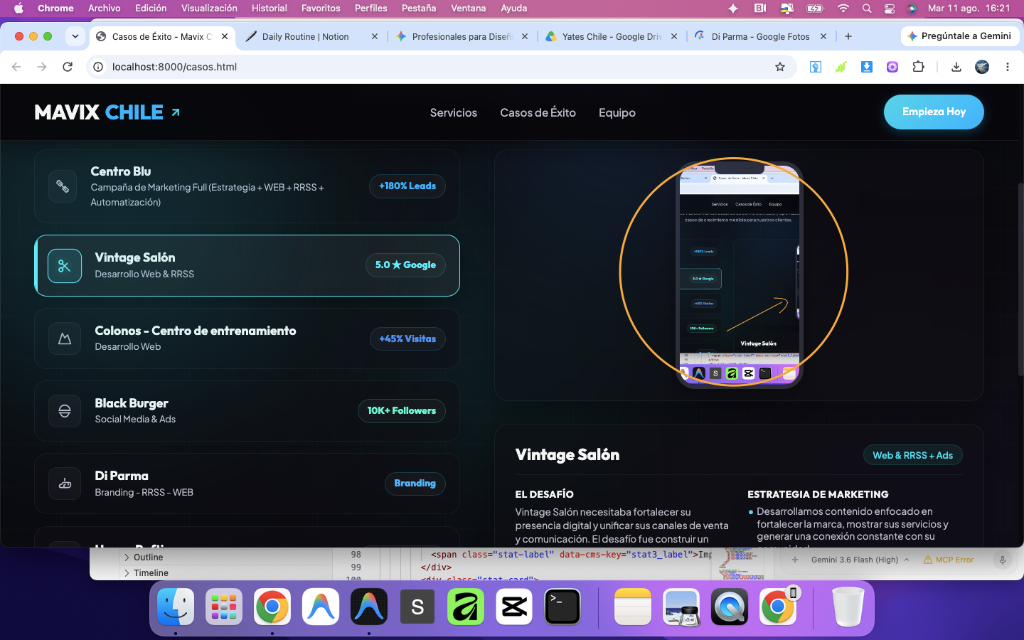
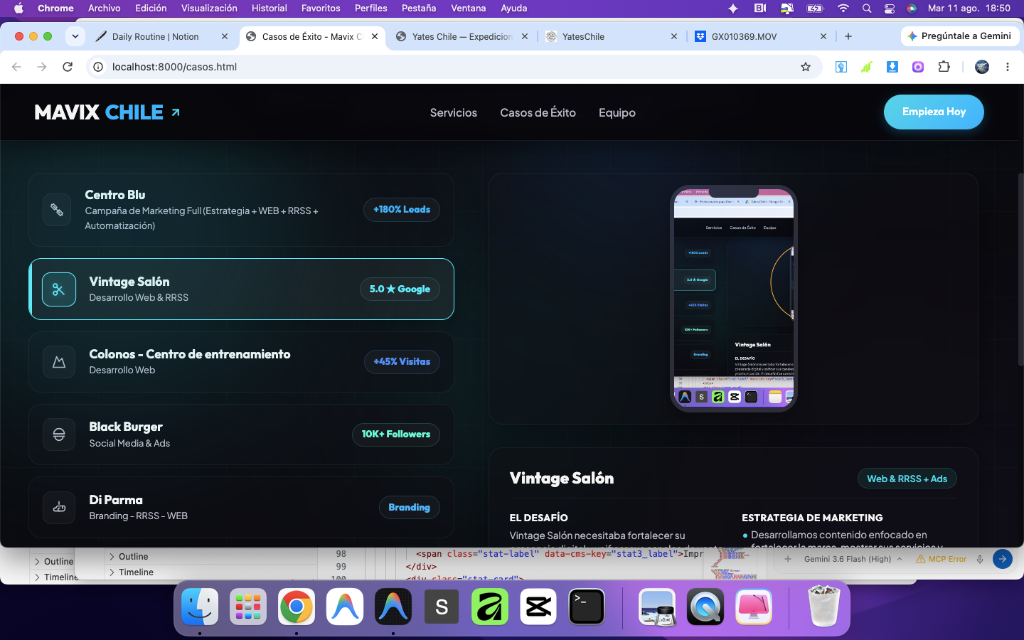
Fix Vintage Salon screen image and remove dynamic CMS override

diff --git a/casos.html b/casos.html
@@ -148,7 +148,7 @@
               <!-- Screens Container -->
               <div class="simulator-screens">
                 <div class="sim-screen screen-blu active" data-project="blu" data-cms-key="cms_casos_img_screen_blu"></div>
-                <div class="sim-screen screen-vintage" data-project="vintage" data-cms-key="cms_casos_img_screen_vintage"></div>
+                <div class="sim-screen screen-vintage" data-project="vintage"></div>
                 <div class="sim-screen screen-colonos" data-project="colonos" data-cms-key="cms_casos_img_screen_colonos"></div>
                 <div class="sim-screen screen-burger" data-project="burger" data-cms-key="cms_casos_img_screen_burger"></div>
                 <div class="sim-screen screen-parma" data-project="parma" data-cms-key="cms_casos_img_screen_parma"></div>

diff --git a/style.css b/style.css
@@ -2753,7 +2753,7 @@ header .container {
   background-image: url('assets/blu_screen.png?v=3.0');
 }
 .screen-vintage {
-  background-image: url('assets/vintage_instagram_clean.png?v=4.0');
+  background-image: url('assets/vintage_instagram_clean.png?v=5.0');
 }
 .screen-colonos {
   background-image: url('assets/colonos_screen.png?v=2.0');
